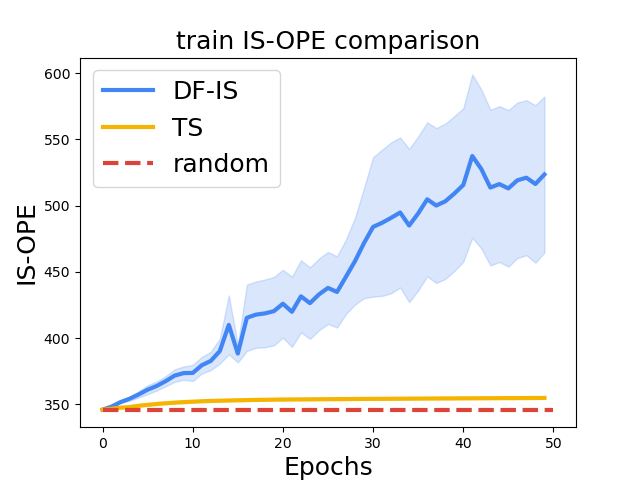
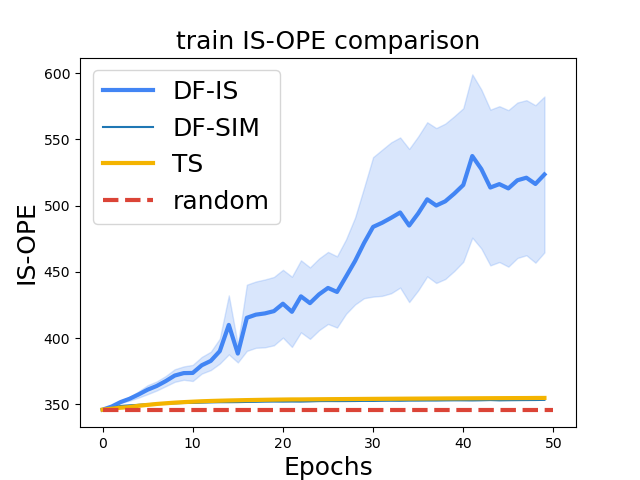
added ess penalty and CWPDIS

diff --git a/dfl/full_visualization.py b/dfl/full_visualization.py
@@ -40,8 +40,8 @@ if args.compute:
     print ('Starting seed: ', sd)
     print ('Starting DF Importance Sampling to be saved as: '+DF_IS_filename)
     subprocess.run(f'python3 train.py --method DF --sv {DF_IS_filename} --epochs {args.epochs} --instances {args.instances} --seed {sd} --ope {"IS"}', shell=True)
-    # print ('Starting DF Simu based to be saved as: '+DF_SIM_filename)
-    # subprocess.run(f'python3 train.py --method DF --sv {DF_SIM_filename} --epochs {args.epochs} --instances {args.instances} --seed {sd} --ope {"sim"}', shell=True)
+    print ('Starting DF Simu based to be saved as: '+DF_SIM_filename)
+    subprocess.run(f'python3 train.py --method DF --sv {DF_SIM_filename} --epochs {args.epochs} --instances {args.instances} --seed {sd} --ope {"sim"}', shell=True)
     print ('Starting TS to be saved as: '+TS_filename)
     subprocess.run(f'python3 train.py --method TS --sv {TS_filename} --epochs {args.epochs} --instances {args.instances} --seed {sd}', shell=True)
     print ('ALL THREE DONE')
@@ -65,8 +65,8 @@ if args.plot:
       with open (DF_IS_filename, 'rb') as df_is_file:
           df_is_outputs.append(pickle.load(df_is_file))
 
-      # with open (DF_SIM_filename, 'rb') as df_sim_file:
-      #     df_sim_outputs.append(pickle.load(df_sim_file))
+      with open (DF_SIM_filename, 'rb') as df_sim_file:
+          df_sim_outputs.append(pickle.load(df_sim_file))
 
       with open (TS_filename, 'rb') as ts_file:
           ts_outputs.append(pickle.load(ts_file))
@@ -91,21 +91,21 @@ if args.plot:
     
     for epoch in range(num_epochs):
         df_is_outputs_for_this_epoch=np.array([item[0][mode][epoch] for item in df_is_outputs])
-        # df_sim_outputs_for_this_epoch=np.array([item[0][mode][epoch] for item in df_sim_outputs])
+        df_sim_outputs_for_this_epoch=np.array([item[0][mode][epoch] for item in df_sim_outputs])
         ts_outputs_for_this_epoch=np.array([item[0][mode][epoch] for item in ts_outputs])
 
         df_is_means.append(np.mean(df_is_outputs_for_this_epoch))
-        # df_sim_means.append(np.mean(df_sim_outputs_for_this_epoch))
+        df_sim_means.append(np.mean(df_sim_outputs_for_this_epoch))
         ts_means.append(np.mean(ts_outputs_for_this_epoch))
 
         df_is_errors.append(np.std(df_is_outputs_for_this_epoch)/np.sqrt(len(df_is_outputs_for_this_epoch)))
-        # df_sim_errors.append(np.std(df_sim_outputs_for_this_epoch)/np.sqrt(len(df_sim_outputs_for_this_epoch)))
+        df_sim_errors.append(np.std(df_sim_outputs_for_this_epoch)/np.sqrt(len(df_sim_outputs_for_this_epoch)))
         ts_errors.append(np.std(ts_outputs_for_this_epoch)/np.sqrt(len(ts_outputs_for_this_epoch)))
     
     df_is_means=np.array(df_is_means)
     df_is_errors=np.array(df_is_errors)
-    # df_sim_means=np.array(df_sim_means)
-    # df_sim_errors=np.array(df_sim_errors)
+    df_sim_means=np.array(df_sim_means)
+    df_sim_errors=np.array(df_sim_errors)
     
     ts_means=np.array(ts_means)
     ts_errors=np.array(ts_errors)
@@ -113,13 +113,13 @@ if args.plot:
     plt.plot(range(num_epochs), df_is_means, label='DF-IS', color='#4285F4', lw=lw)
     plt.fill_between(range(num_epochs), df_is_means-df_is_errors, df_is_means+df_is_errors, alpha=0.2, color='#4285F4')
     
-    # plt.plot(range(num_epochs), df_sim_means, label='DF-SIM')
-    # plt.fill_between(range(num_epochs), df_sim_means-df_sim_errors, df_sim_means+df_sim_errors, alpha=0.2)
+    plt.plot(range(num_epochs), df_sim_means, label='DF-SIM')
+    plt.fill_between(range(num_epochs), df_sim_means-df_sim_errors, df_sim_means+df_sim_errors, alpha=0.2)
     
     plt.plot(range(num_epochs), ts_means, label='TS', color='#F4B400', lw=lw)
     plt.fill_between(range(num_epochs), ts_means-ts_errors, ts_means+ts_errors, alpha=0.2, color='#F4B400')
 
-    # plt.hlines(random_mean[0], xmin=0, xmax=num_epochs, colors='#DB4437', lw=lw, linestyle='dashed', label='random')
+    plt.hlines(random_mean[0], xmin=0, xmax=num_epochs, colors='#DB4437', lw=lw, linestyle='dashed', label='random')
 
     plt.legend(fontsize=18)
     plt.xlabel('Epochs', fontsize=18)
@@ -134,28 +134,28 @@ if args.plot:
     
     df_is_means=[]
     df_is_errors=[]
-    # df_sim_means=[]
-    # df_sim_errors=[]
+    df_sim_means=[]
+    df_sim_errors=[]
     ts_means=[]
     ts_errors=[]
     
     for epoch in range(num_epochs):
         df_is_outputs_for_this_epoch=np.array([item[1][mode][epoch] for item in df_is_outputs])
-        # df_sim_outputs_for_this_epoch=np.array([item[1][mode][epoch] for item in df_sim_outputs])
+        df_sim_outputs_for_this_epoch=np.array([item[1][mode][epoch] for item in df_sim_outputs])
         ts_outputs_for_this_epoch=np.array([item[1][mode][epoch] for item in ts_outputs])
 
         df_is_means.append(np.mean(df_is_outputs_for_this_epoch))
-        # df_sim_means.append(np.mean(df_sim_outputs_for_this_epoch))
+        df_sim_means.append(np.mean(df_sim_outputs_for_this_epoch))
         ts_means.append(np.mean(ts_outputs_for_this_epoch))
 
         df_is_errors.append(np.std(df_is_outputs_for_this_epoch)/np.sqrt(len(df_is_outputs_for_this_epoch)))
-        # df_sim_errors.append(np.std(df_sim_outputs_for_this_epoch)/np.sqrt(len(df_sim_outputs_for_this_epoch)))
+        df_sim_errors.append(np.std(df_sim_outputs_for_this_epoch)/np.sqrt(len(df_sim_outputs_for_this_epoch)))
         ts_errors.append(np.std(ts_outputs_for_this_epoch)/np.sqrt(len(ts_outputs_for_this_epoch)))
     
     df_is_means=np.array(df_is_means)
     df_is_errors=np.array(df_is_errors)
-    # df_sim_means=np.array(df_sim_means)
-    # df_sim_errors=np.array(df_sim_errors)
+    df_sim_means=np.array(df_sim_means)
+    df_sim_errors=np.array(df_sim_errors)
     
     ts_means=np.array(ts_means)
     ts_errors=np.array(ts_errors)
@@ -163,8 +163,8 @@ if args.plot:
     plt.plot(range(num_epochs), df_is_means, label='DF-IS', color='#4285F4', lw=lw)
     plt.fill_between(range(num_epochs), df_is_means-df_is_errors, df_is_means+df_is_errors, alpha=0.2, color='#4285F4')
     
-    # plt.plot(range(num_epochs), df_sim_means, label='DF-SIM')
-    # plt.fill_between(range(num_epochs), df_sim_means-df_sim_errors, df_sim_means+df_sim_errors, alpha=0.2)
+    plt.plot(range(num_epochs), df_sim_means, label='DF-SIM')
+    plt.fill_between(range(num_epochs), df_sim_means-df_sim_errors, df_sim_means+df_sim_errors, alpha=0.2)
     
     plt.plot(range(num_epochs), ts_means, label='TS', color='#F4B400', lw=lw)
     plt.fill_between(range(num_epochs), ts_means-ts_errors, ts_means+ts_errors, alpha=0.2, color='#F4B400')
@@ -184,28 +184,28 @@ if args.plot:
     
     df_is_means=[]
     df_is_errors=[]
-    # df_sim_means=[]
-    # df_sim_errors=[]
+    df_sim_means=[]
+    df_sim_errors=[]
     ts_means=[]
     ts_errors=[]
     
     for epoch in range(num_epochs):
         df_is_outputs_for_this_epoch=np.array([item[2][mode][epoch] for item in df_is_outputs])
-        # df_sim_outputs_for_this_epoch=np.array([item[2][mode][epoch] for item in df_sim_outputs])
+        df_sim_outputs_for_this_epoch=np.array([item[2][mode][epoch] for item in df_sim_outputs])
         ts_outputs_for_this_epoch=np.array([item[2][mode][epoch] for item in ts_outputs])
 
         df_is_means.append(np.mean(df_is_outputs_for_this_epoch))
-        # df_sim_means.append(np.mean(df_sim_outputs_for_this_epoch))
+        df_sim_means.append(np.mean(df_sim_outputs_for_this_epoch))
         ts_means.append(np.mean(ts_outputs_for_this_epoch))
 
         df_is_errors.append(np.std(df_is_outputs_for_this_epoch)/np.sqrt(len(df_is_outputs_for_this_epoch)))
-        # df_sim_errors.append(np.std(df_sim_outputs_for_this_epoch)/np.sqrt(len(df_sim_outputs_for_this_epoch)))
+        df_sim_errors.append(np.std(df_sim_outputs_for_this_epoch)/np.sqrt(len(df_sim_outputs_for_this_epoch)))
         ts_errors.append(np.std(ts_outputs_for_this_epoch)/np.sqrt(len(ts_outputs_for_this_epoch)))
     
     df_is_means=np.array(df_is_means)
     df_is_errors=np.array(df_is_errors)
-    # df_sim_means=np.array(df_sim_means)
-    # df_sim_errors=np.array(df_sim_errors)
+    df_sim_means=np.array(df_sim_means)
+    df_sim_errors=np.array(df_sim_errors)
     
     ts_means=np.array(ts_means)
     ts_errors=np.array(ts_errors)
@@ -213,8 +213,8 @@ if args.plot:
     plt.plot(range(num_epochs), df_is_means, label='DF-IS', color='#4285F4', lw=lw)
     plt.fill_between(range(num_epochs), df_is_means-df_is_errors, df_is_means+df_is_errors, alpha=0.2, color='#4285F4')
     
-    # plt.plot(range(num_epochs), df_sim_means, label='DF-SIM')
-    # plt.fill_between(range(num_epochs), df_sim_means-df_sim_errors, df_sim_means+df_sim_errors, alpha=0.2)
+    plt.plot(range(num_epochs), df_sim_means, label='DF-SIM')
+    plt.fill_between(range(num_epochs), df_sim_means-df_sim_errors, df_sim_means+df_sim_errors, alpha=0.2)
     
     plt.plot(range(num_epochs), ts_means, label='TS', color='#F4B400', lw=lw)
     plt.fill_between(range(num_epochs), ts_means-ts_errors, ts_means+ts_errors, alpha=0.2, color='#F4B400')
@@ -233,7 +233,7 @@ if args.plot:
   ### Table information
   ts_selected_metrics = []
   df_is_selected_metrics = []
-  # df_sim_selected_metrics = []
+  df_sim_selected_metrics = []
   for sd in range(args.seed, args.seed+args.tr):
     # Two-stage selected epoch
     print (sd, len(ts_outputs))
@@ -245,18 +245,18 @@ if args.plot:
     df_is_selected_metrics.append([df_is_outputs[sd-args.seed][i]['test'][df_is_selected_epoch] for i in range(3)])
 
     # DF-sim selected epoch
-    # df_sim_selected_epoch = np.argmax(df_sim_outputs[sd-args.seed][2]['val'][:-1]) # Maximize SIM OPE
-    # df_sim_selected_metrics.append([df_sim_outputs[sd-args.seed][i]['test'][df_sim_selected_epoch] for i in range(3)])
+    df_sim_selected_epoch = np.argmax(df_sim_outputs[sd-args.seed][2]['val'][:-1]) # Maximize SIM OPE
+    df_sim_selected_metrics.append([df_sim_outputs[sd-args.seed][i]['test'][df_sim_selected_epoch] for i in range(3)])
   
   ts_selected_metrics=np.array(ts_selected_metrics)
   df_is_selected_metrics=np.array(df_is_selected_metrics)
-  # df_sim_selected_metrics=np.array(df_sim_selected_metrics)
+  df_sim_selected_metrics=np.array(df_sim_selected_metrics)
 
   ts_test_mean, ts_test_ste         = np.mean(ts_selected_metrics, axis=0), np.std(ts_selected_metrics, axis=0) / np.sqrt(len(ts_outputs))
   df_is_test_mean, df_is_test_ste   = np.mean(df_is_selected_metrics, axis=0), np.std(df_is_selected_metrics, axis=0) / np.sqrt(len(df_is_outputs))
-  # df_sim_test_mean, df_sim_test_ste = np.mean(df_sim_selected_metrics, axis=0), np.std(df_sim_selected_metrics, axis=0) / np.sqrt(len(df_sim_outputs))
+  df_sim_test_mean, df_sim_test_ste = np.mean(df_sim_selected_metrics, axis=0), np.std(df_sim_selected_metrics, axis=0) / np.sqrt(len(df_sim_outputs))
 
   print('Random test metrics mean (Loss/IS OPE/Sim OPE): ${:.1f}\pm{:.1f}$, ${:.1f}\pm{:.1f}$, ${:.1f}\pm{:.1f}$'.format(random_mean[0], random_ste[0], random_mean[1], random_ste[1], random_mean[2], random_ste[2])) # only valid after 0119
   print('Two-stage test metrics mean (Loss/IS OPE/Sim OPE): ${:.1f}\pm{:.1f}$, ${:.1f}\pm{:.1f}$, ${:.1f}\pm{:.1f}$'.format(ts_test_mean[0], ts_test_ste[0], ts_test_mean[1], ts_test_ste[1], ts_test_mean[2], ts_test_ste[2]))
   print('DF-IS test metrics mean (Loss/IS OPE/ Sim OPE): ${:.1f}\pm{:.1f}$, ${:.1f}\pm{:.1f}$, ${:.1f}\pm{:.1f}$'.format(df_is_test_mean[0], df_is_test_ste[0], df_is_test_mean[1], df_is_test_ste[1], df_is_test_mean[2], df_is_test_ste[2]))
-  # print('DF-sim test metrics mean (Loss/IS OPE/Sim OPE): ${:.1f}\pm{:.1f}$, ${:.1f}\pm{:.1f}$, ${:.1f}\pm{:.1f}$'.format(df_sim_test_mean[0], df_sim_test_ste[0], df_sim_test_mean[1], df_sim_test_ste[1], df_sim_test_mean[2], df_sim_test_ste[2]))
+  print('DF-sim test metrics mean (Loss/IS OPE/Sim OPE): ${:.1f}\pm{:.1f}$, ${:.1f}\pm{:.1f}$, ${:.1f}\pm{:.1f}$'.format(df_sim_test_mean[0], df_sim_test_ste[0], df_sim_test_mean[1], df_sim_test_ste[1], df_sim_test_mean[2], df_sim_test_ste[2]))

diff --git a/dfl/train.py b/dfl/train.py
@@ -36,7 +36,7 @@ if __name__ == '__main__':
     n_trials = 100
     L = 10
     K = 20
-    n_states = 2
+    n_states = 5
     gamma = 0.99
     target_policy_name = 'soft-whittle'
     beh_policy_name    = 'random'
@@ -94,13 +94,14 @@ if __name__ == '__main__':
         for mode, dataset in dataset_list:
             loss_list = []
             ope_list = [] # OPE IS
+            ess_list = []
             ope_sim_list = [] # OPE simulation
             if mode == 'train':
                 dataset = tqdm.tqdm(dataset)
 
-            for (feature, label, raw_R_data, traj, ope_simulator, _, state_record, action_record, reward_record) in dataset:
+            for (feature, _, raw_R_data, traj, ope_simulator, _, state_record, action_record, reward_record) in dataset:
                 feature = tf.constant(feature, dtype=tf.float32)
-                label   = tf.constant(label, dtype=tf.float32)
+                # label   = tf.constant(label, dtype=tf.float32)
                 raw_R_data = tf.constant(raw_R_data, dtype=tf.float32)
 
                 with tf.GradientTape() as tape:
@@ -117,8 +118,7 @@ if __name__ == '__main__':
                         n_full_states = n_states * H
                     
                     # start_time = time.time()
-                    # loss = tf.reduce_sum((label - prediction)**2) # Two-stage loss
-                    loss = twoStageNLLLoss(traj, T_data, beh_policy_name) - twoStageNLLLoss(traj, label, beh_policy_name) # Two-stage custom NLL loss
+                    loss = twoStageNLLLoss(traj, T_data, beh_policy_name) # - twoStageNLLLoss(traj, label, beh_policy_name) # Two-stage custom NLL loss
                     # print('two stage loss time:', time.time() - start_time)
 
                     # Batch Whittle index computation
@@ -131,12 +131,13 @@ if __name__ == '__main__':
                     # print('Whittle index time:', time.time() - start_time)
                     
                     # start_time = time.time()
-                    ope_IS = opeIS_parallel(state_record, action_record, reward_record, w, n_benefs, L, K, n_trials, gamma,
+                    ope_IS, ess = opeIS_parallel(state_record, action_record, reward_record, w, n_benefs, L, K, n_trials, gamma,
                             target_policy_name, beh_policy_name)
                     ope_sim = ope_simulator(w, K)
                     # ope_sim = ope_simulator(tf.reshape(w, (n_benefs, n_full_states)))
                     if ope_mode == 'IS': # importance-sampling based OPE
-                        ope = ope_IS
+                        ess_weight = 1
+                        ope = ope_IS - ess_weight * tf.reduce_sum(1.0 / tf.math.sqrt(ess))
                     elif ope_mode == 'sim': # simulation-based OPE
                         ope = ope_sim
                     else:
@@ -160,8 +161,9 @@ if __name__ == '__main__':
                 loss_list.append(loss)
                 ope_list.append(ope_IS)
                 ope_sim_list.append(ope_sim)
+                ess_list.append(tf.reduce_mean(ess))
 
-            print(f'Epoch {epoch}, {mode} mode, average loss {np.mean(loss_list)}, average ope (IS) {np.mean(ope_list)}, average ope (sim) {np.mean(ope_sim_list)}')
+            print(f'Epoch {epoch}, {mode} mode, average loss {np.mean(loss_list)}, average ope (IS) {np.mean(ope_list)}, average ope (sim) {np.mean(ope_sim_list)}, average ess {np.mean(ess_list)}')
             
             overall_loss[mode].append(np.mean(loss_list))
             overall_ope[mode].append(np.mean(ope_list))

diff --git a/dfl/ope.py b/dfl/ope.py
@@ -98,14 +98,14 @@ def opeIS_parallel(state_record, action_record, reward_record, w, n_benefs, T, K
     ess = 0
     for t in range(T-1):
         rewards = reward_record[:, 0, t, :] 
-        total_probs = total_probs * IS_weights[:,t,:]
-        IS_sum = tf.reduce_sum(IS_weights[:,t,:], axis=0, keepdims=True)
-        IS_square_sum = tf.reduce_sum(IS_weights[:,t,:]**2, axis=0, keepdims=True)
+        total_probs = total_probs * IS_weights[:,t,:] # shape: [n_trials, n_benefs]
+        IS_sum = tf.reduce_sum(total_probs, axis=0, keepdims=True) # shape: [1, n_benefs]
+        IS_square_sum = tf.reduce_sum(total_probs**2, axis=0, keepdims=True) # shape: [1, n_benefs]
         ope += rewards * total_probs * gamma_series[t] / IS_sum
-        ess += tf.reduce_sum(IS_sum ** 2) / tf.reduce_sum(IS_square_sum)
+        ess += IS_sum ** 2 / IS_square_sum # shape: [1, n_benefs]
 
     ope = tf.reduce_sum(ope)
-    return ope - 0.5 / tf.math.sqrt(ess)
+    return ope, ess
 
 def opeISNaive(traj, w, n_benefs, T, K, n_trials, gamma, target_policy_name, beh_policy_name):
     compare = {'target':policy_map[target_policy_name], 'beh':policy_map[beh_policy_name]}

diff --git a/dfl/synthetic.py b/dfl/synthetic.py
@@ -48,7 +48,10 @@ def generateDataset(n_benefs, n_states, n_instances, n_trials, L, K, gamma, env=
         raw_T_data = generateRandomTMatrix(n_benefs, n_states=n_states, R_data=R) # numpy array
         
         # Generate features using the transition probabilities
+        noise_level = 0.1
         feature = model(tf.constant(raw_T_data.reshape(-1,2*n_states*n_states), dtype=tf.float32))
+        # print(tf.norm(feature, axis=1))
+        # feature = feature + tf.random.normal(shape=(n_benefs, 16,)) * noise_level
 
         # Generate environment parameters
         if env=='general':
